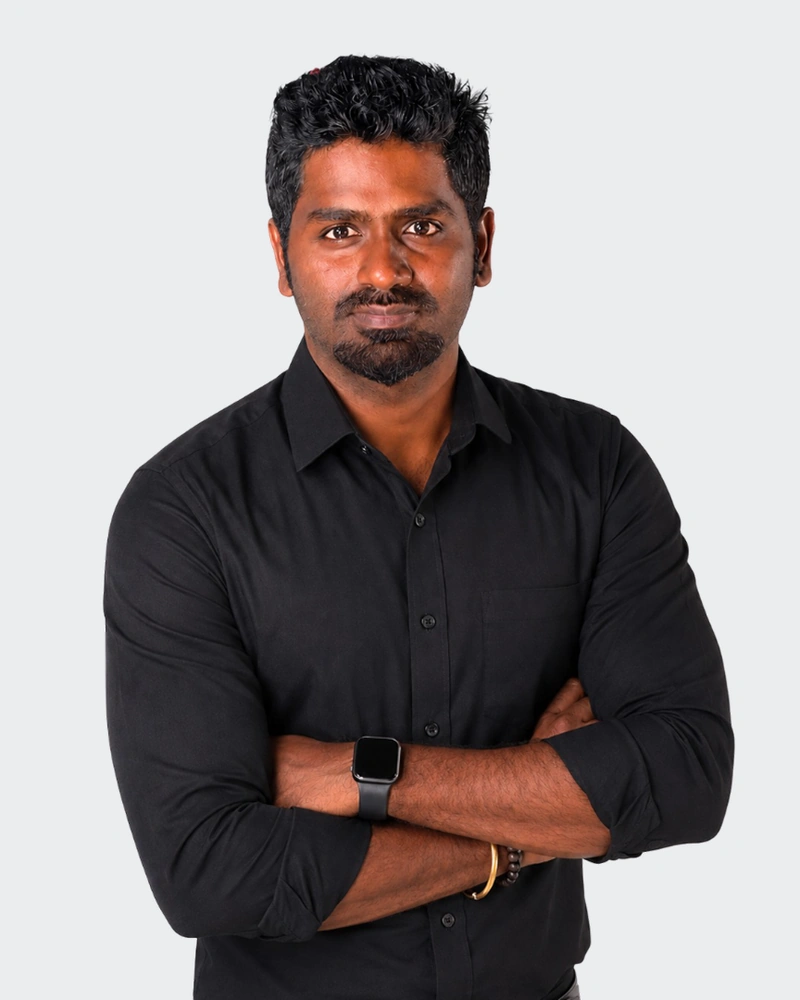
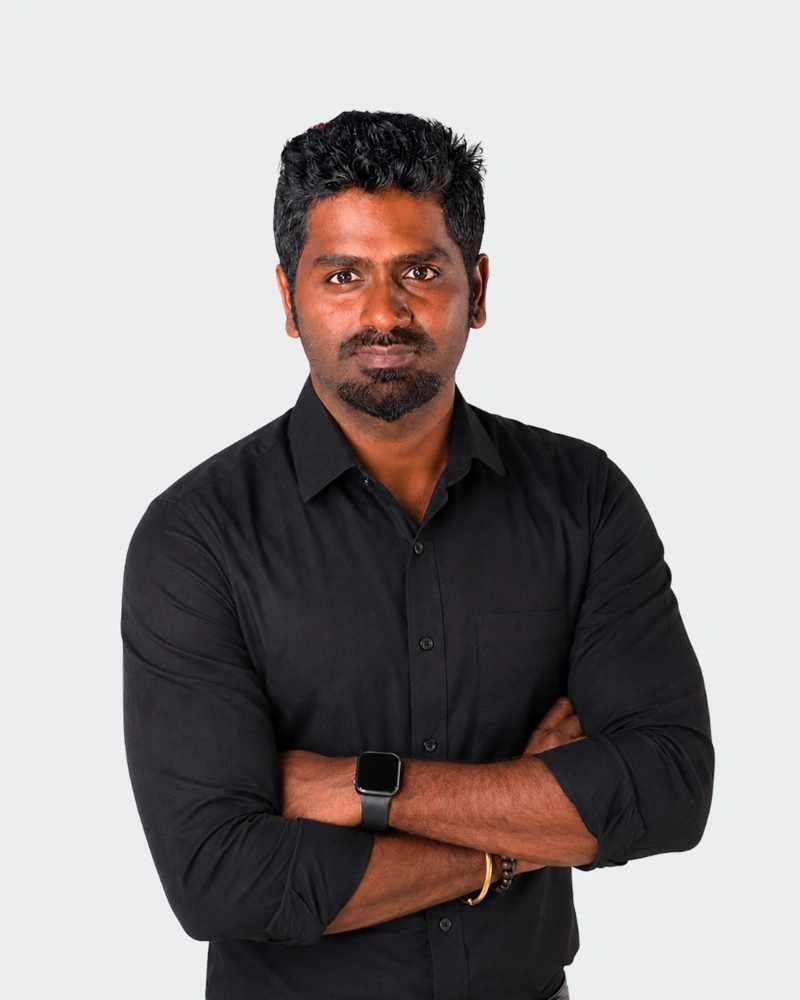
image changes

diff --git a/src/app/about/components/MeetTheTeam.tsx b/src/app/about/components/MeetTheTeam.tsx
@@ -79,7 +79,7 @@ const MeetTheTeam = ({ employees }: MeetTheTeamProps) => {
                                     // src={employee.image || `/images/team${index + 1}.jpg`}
                                     // alt="team"
                                     src={`${BASE_URL}/uploads/${employee.image}`}
-                                    className="w-full h-95 object-cover object-top"
+                                    className="w-full h-110 object-cover object-top"
                                     variants={{
                                         rest: { scale: 1 },
                                         hover: { scale: 1.1 }
@@ -89,7 +89,7 @@ const MeetTheTeam = ({ employees }: MeetTheTeamProps) => {
 
                                 {/* Gradient Overlay */}
                                 <motion.div
-                                    className="absolute inset-0 bg-linear-to-t from-black via-black/70 to-transparent"
+                                    className="absolute inset-0 bg-linear-to-t from-black via-black/30 to-transparent"
                                     variants={{
                                         rest: { opacity: 0 },
                                         hover: { opacity: 1 }
@@ -108,7 +108,7 @@ const MeetTheTeam = ({ employees }: MeetTheTeamProps) => {
                                 >
                                     <h3 className="text-xl font-bold">{employee.name}</h3>
 
-                                    <p className="text-sm text-gray-300 mb-3">
+                                    <p className="text-xs text-gray-300 mb-3">
                                         {employee.designation} - {employee.experience}
                                     </p>
                                     {/* <p className="text-sm text-gray-300">
@@ -116,7 +116,7 @@ const MeetTheTeam = ({ employees }: MeetTheTeamProps) => {
                                     </p> */}
 
                                     <div
-                                        className="text-sm text-gray-400 mb-5"
+                                        className="text-base leading-tight text-gray-400 mb-5"
                                         suppressHydrationWarning
                                         dangerouslySetInnerHTML={{
                                             __html: employee.description || "",
